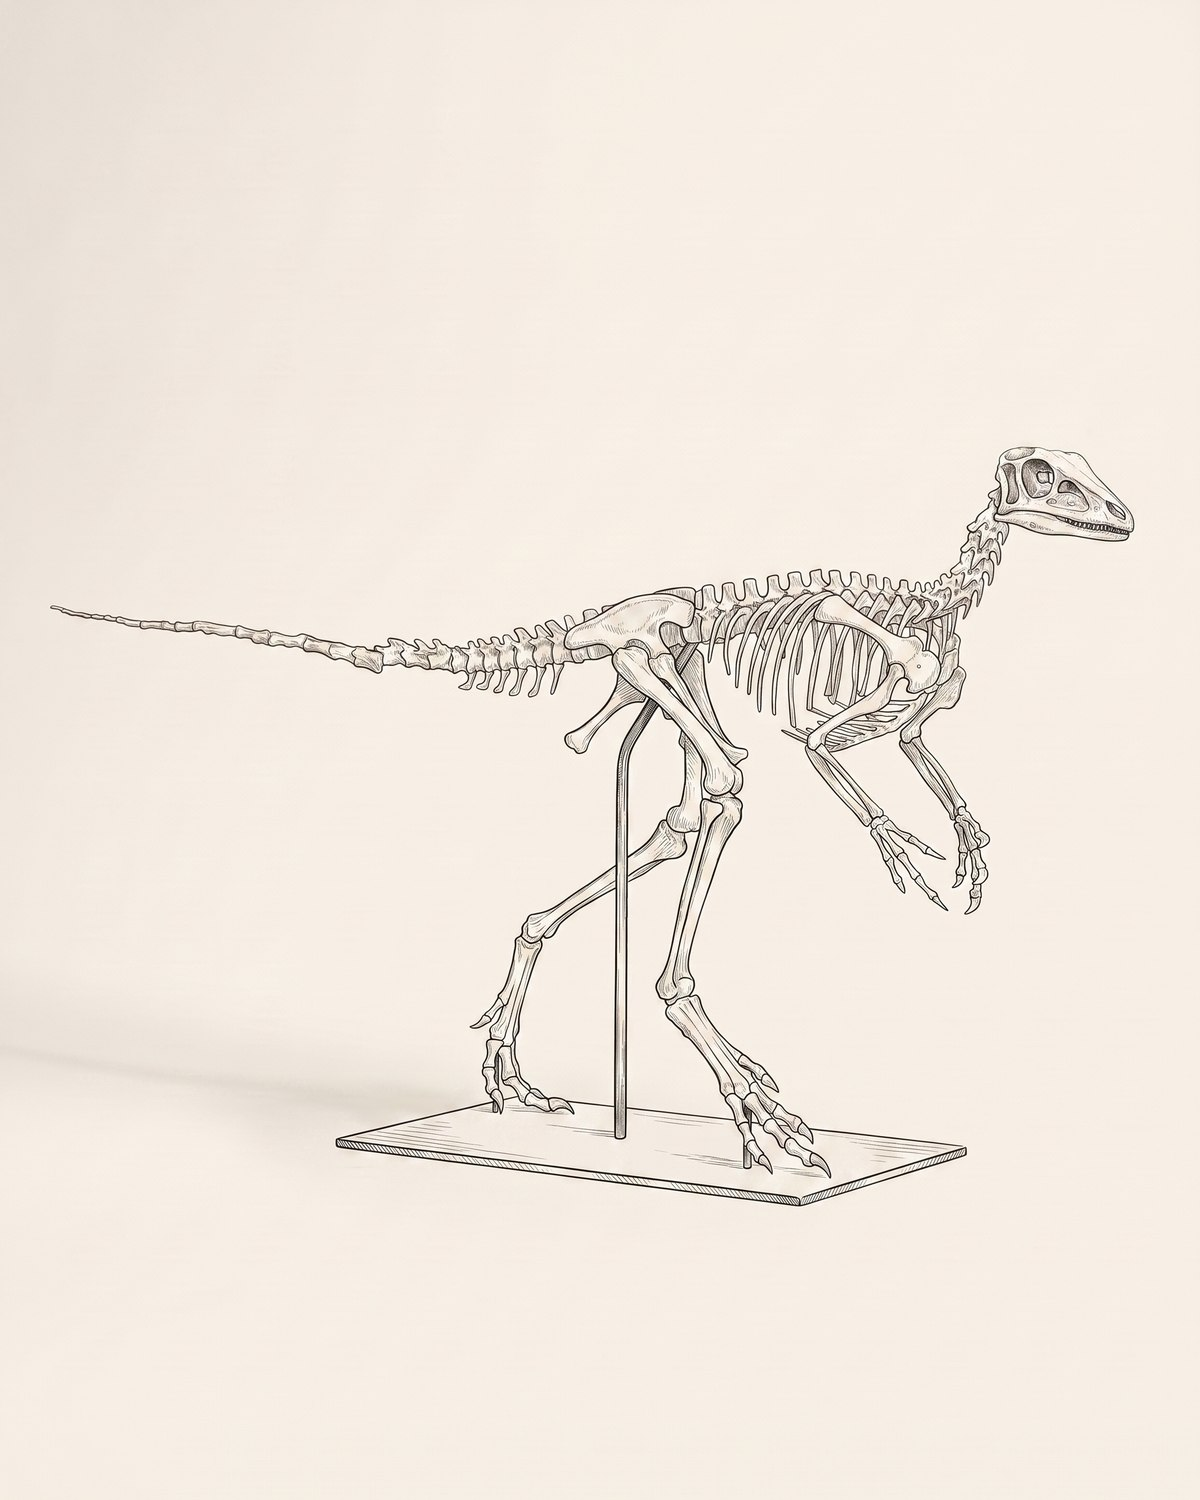
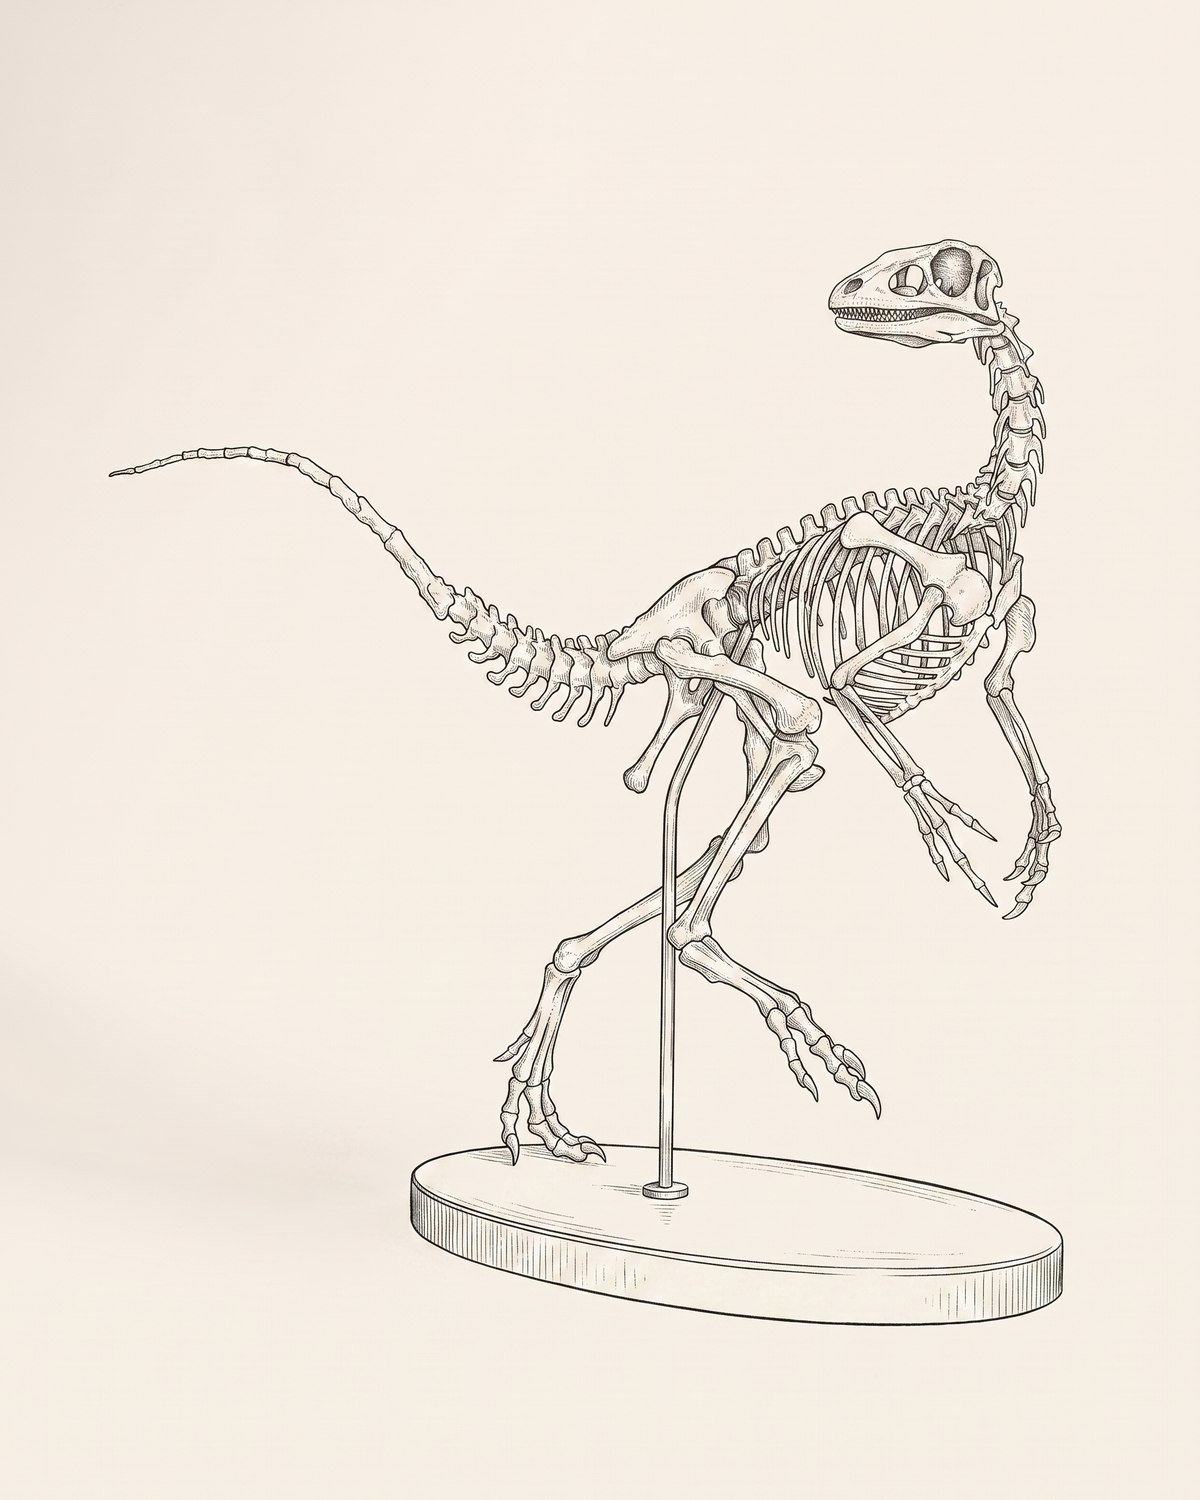
Дирозавр вместо снятого крокодилиформа; жехолозавр пересобран в другой позе
КРОКОДИЛИФОРМ. Я поспешил, сняв объект совсем: Михаил предлагал два
пути — убрать либо «найти правильный пример и сделать под заказ», и
указал вид для поиска (Dyrosaurus из бассейна Улед-Абдун, Хурибга,
65 млн лет). Возвращён как R-0612 «Скелет дирозавра» под заказ, с
анатомически верным монтажом: сохранены длинное узкое рыло и конические
зубы, но конечности теперь нормальные крокодилиновые, а не ласты
ихтиозавра, как у нынешнего экземпляра после марокканской сборки.

ЖЕХОЛОЗАВР. Прежний монтаж напоминал экземпляр paleo hunters. Пересобран
в другой подаче: шаг с поднятой головой и разворотом через плечо,
поднятая задняя лапа, хвост мягкой дугой; опора бронзовая на овальном
каменном основании вместо прямоугольной стальной плиты. Чертёж,
реконструкция и интерьер пересняты под новую позу.

diff --git a/16_product_promos/promo-data.js b/16_product_promos/promo-data.js
@@ -2,6 +2,28 @@
    Паспорт (возраст/место/размер/цена) берётся из shared/catalog.js по id.
    Здесь — история, эпоха, медиа. Открывается: exhibit.html?id=R–XXXX */
 window.RELICTUM_PROMO = {
+  "R–0612": {
+    life: { img: "life_dyrosaurus.jpg", diagram: "anat_dyrosaurus.jpg", label: "При жизни", title: "Пять метров вдоль африканской отмели" },
+    profile: {
+      facts: {
+        "Среда обитания": "Прибрежные воды и устья рек Северной Африки",
+        "Классификация": "Dyrosaurus, дирозавриды; вид уточняется",
+        "Особенности": "Длинное узкое рыло с коническими зубами, длина около 5–6 метров",
+        "Сохранность": "Скелет в разборе; сборка и монтаж выполняются домом",
+        "Ценность": "Крупная монтажная композиция музейного масштаба; поставка под заказ"
+      },
+      paragraphs: [
+        "Палеоген, около 65 миллионов лет назад: море отступает от Северной Африки, оставляя мелководья и устья рек. В них держатся дирозавриды — длиннорылые крокодилиформы, пережившие вымирание, которое унесло нептичьих динозавров.",
+        "Дирозавр не был прямым предком современных крокодилов: это отдельная ветвь архозавров, приспособленная к жизни в солёной воде. Длинное узкое рыло с рядами конических зубов — снасть для быстрой рыбы; такая форма возникала в группе не раз.",
+        "Экземпляр происходит из фосфоритового бассейна Улед-Абдун близ Хурибги — местонахождения, давшего науке большую часть известных дирозавров. Длина около пяти-шести метров.",
+        "Объект поставляется под заказ: сборка, изготовление опор и монтаж выполняются домом, морфология выверяется по эталонным экземплярам вида. Главная фотография показывает, каким скелет будет смонтирован."
+      ]
+    },
+    hook: "Длиннорылый охотник, переживший гибель динозавров.",
+    interior: { img: "int_ph_dyrosaurus.jpg", text: "Пятиметровый скелет вдоль стены задаёт длину комнате: ему нужна дистанция, чтобы читаться целиком." },
+    era: { title: "После великого вымирания", line: "Палеоген, около 65 млн лет назад", href: "../15_concepts/era-cretaceous.html" }
+  },
+
   "R–0272": {
     life: { img: "life_raptor.jpg", diagram: "anat_raptor.jpg", label: "При жизни", title: "Серп на второй фаланге" },
     profile: {
@@ -87,7 +109,7 @@ window.RELICTUM_PROMO = {
         "Представьте лес раннего мела на месте нынешнего Ляонина: гинкго и хвойные, папоротниковый подлесок, вулканический пепел, который время от времени накрывает всё живое и превращает его в летопись. Именно этому пеплу мы обязаны знаменитой сохранностью жехольской фауны.",
         "Жехолозавр — мелкий двуногий растительноядный динозавр около метра длиной, один из ранних орнитопод. Небольшой череп с клювом и листовидными зубами, компактное тело, длинные задние ноги и очень длинный хвост-противовес: сложение бегуна, а не бойца.",
         "Этот экземпляр полон: череп, позвоночный столб с длинным хвостом, рёбра, обе пары конечностей с вытянутыми стопами. Сейчас скелет хранится в разобранном виде — так его безопаснее перевозить.",
-        "Объект поставляется под заказ: сборка, изготовление опоры из чернёной стали и монтаж выполняются домом. Главная фотография показывает, как экземпляр будет выглядеть смонтированным; исходный снимок несобранного скелета — в галерее. Студийная съёмка после монтажа входит в поставку."
+        "Объект поставляется под заказ: сборка, изготовление опоры из чернёной стали и монтаж выполняются домом. Главная фотография показывает, как экземпляр будет выглядеть смонтированным — в шаге, с поднятой головой, на овальном каменном основании; исходный снимок несобранного скелета — в галерее. Студийная съёмка после монтажа входит в поставку."
       ]
     },
     hook: "Полный скелет метрового бегуна из знаменитой жехольской фауны.",

diff --git a/shared/catalog.js b/shared/catalog.js
@@ -26,6 +26,29 @@ window.RELICTUM_CATALOG = [
     "href": "../16_product_promos/exhibit.html?id=0274-speetoniceras"
   },
   {
+    "id": "R–0612",
+    "world": "grand",
+    "worldLabel": "Монументы",
+    "category": "Крокодилиформы",
+    "period": "Палеоген",
+    "era": "Кайнозой",
+    "region": "Марокко",
+    "latin": "Dyrosaurus sp.",
+    "name": "Скелет дирозавра",
+    "meta": "Улед-Абдун, Марокко<br>Под заказ",
+    "price": "Цена по запросу",
+    "img": "ph_dyrosaurus",
+    "priceValue": null,
+    "status": "Под заказ",
+    "slug": "0612-dyrosaurus",
+    "age": "≈ 65 млн лет, палеоген",
+    "location": "Бассейн Улед-Абдун, Хурибга, Марокко",
+    "size": "Около 5–6 м",
+    "mount": "Монтаж на стальных опорах (выполняется домом)",
+    "description": "Скелет дирозавра — длиннорылого крокодилиформа из фосфоритов Марокко. Экземпляр поставляется под заказ; сборка и монтаж выполняются домом.",
+    "href": "../16_product_promos/exhibit.html?id=0612-dyrosaurus"
+  },
+  {
     "id": "R–0272",
     "world": "grand",
     "worldLabel": "Монументы",
